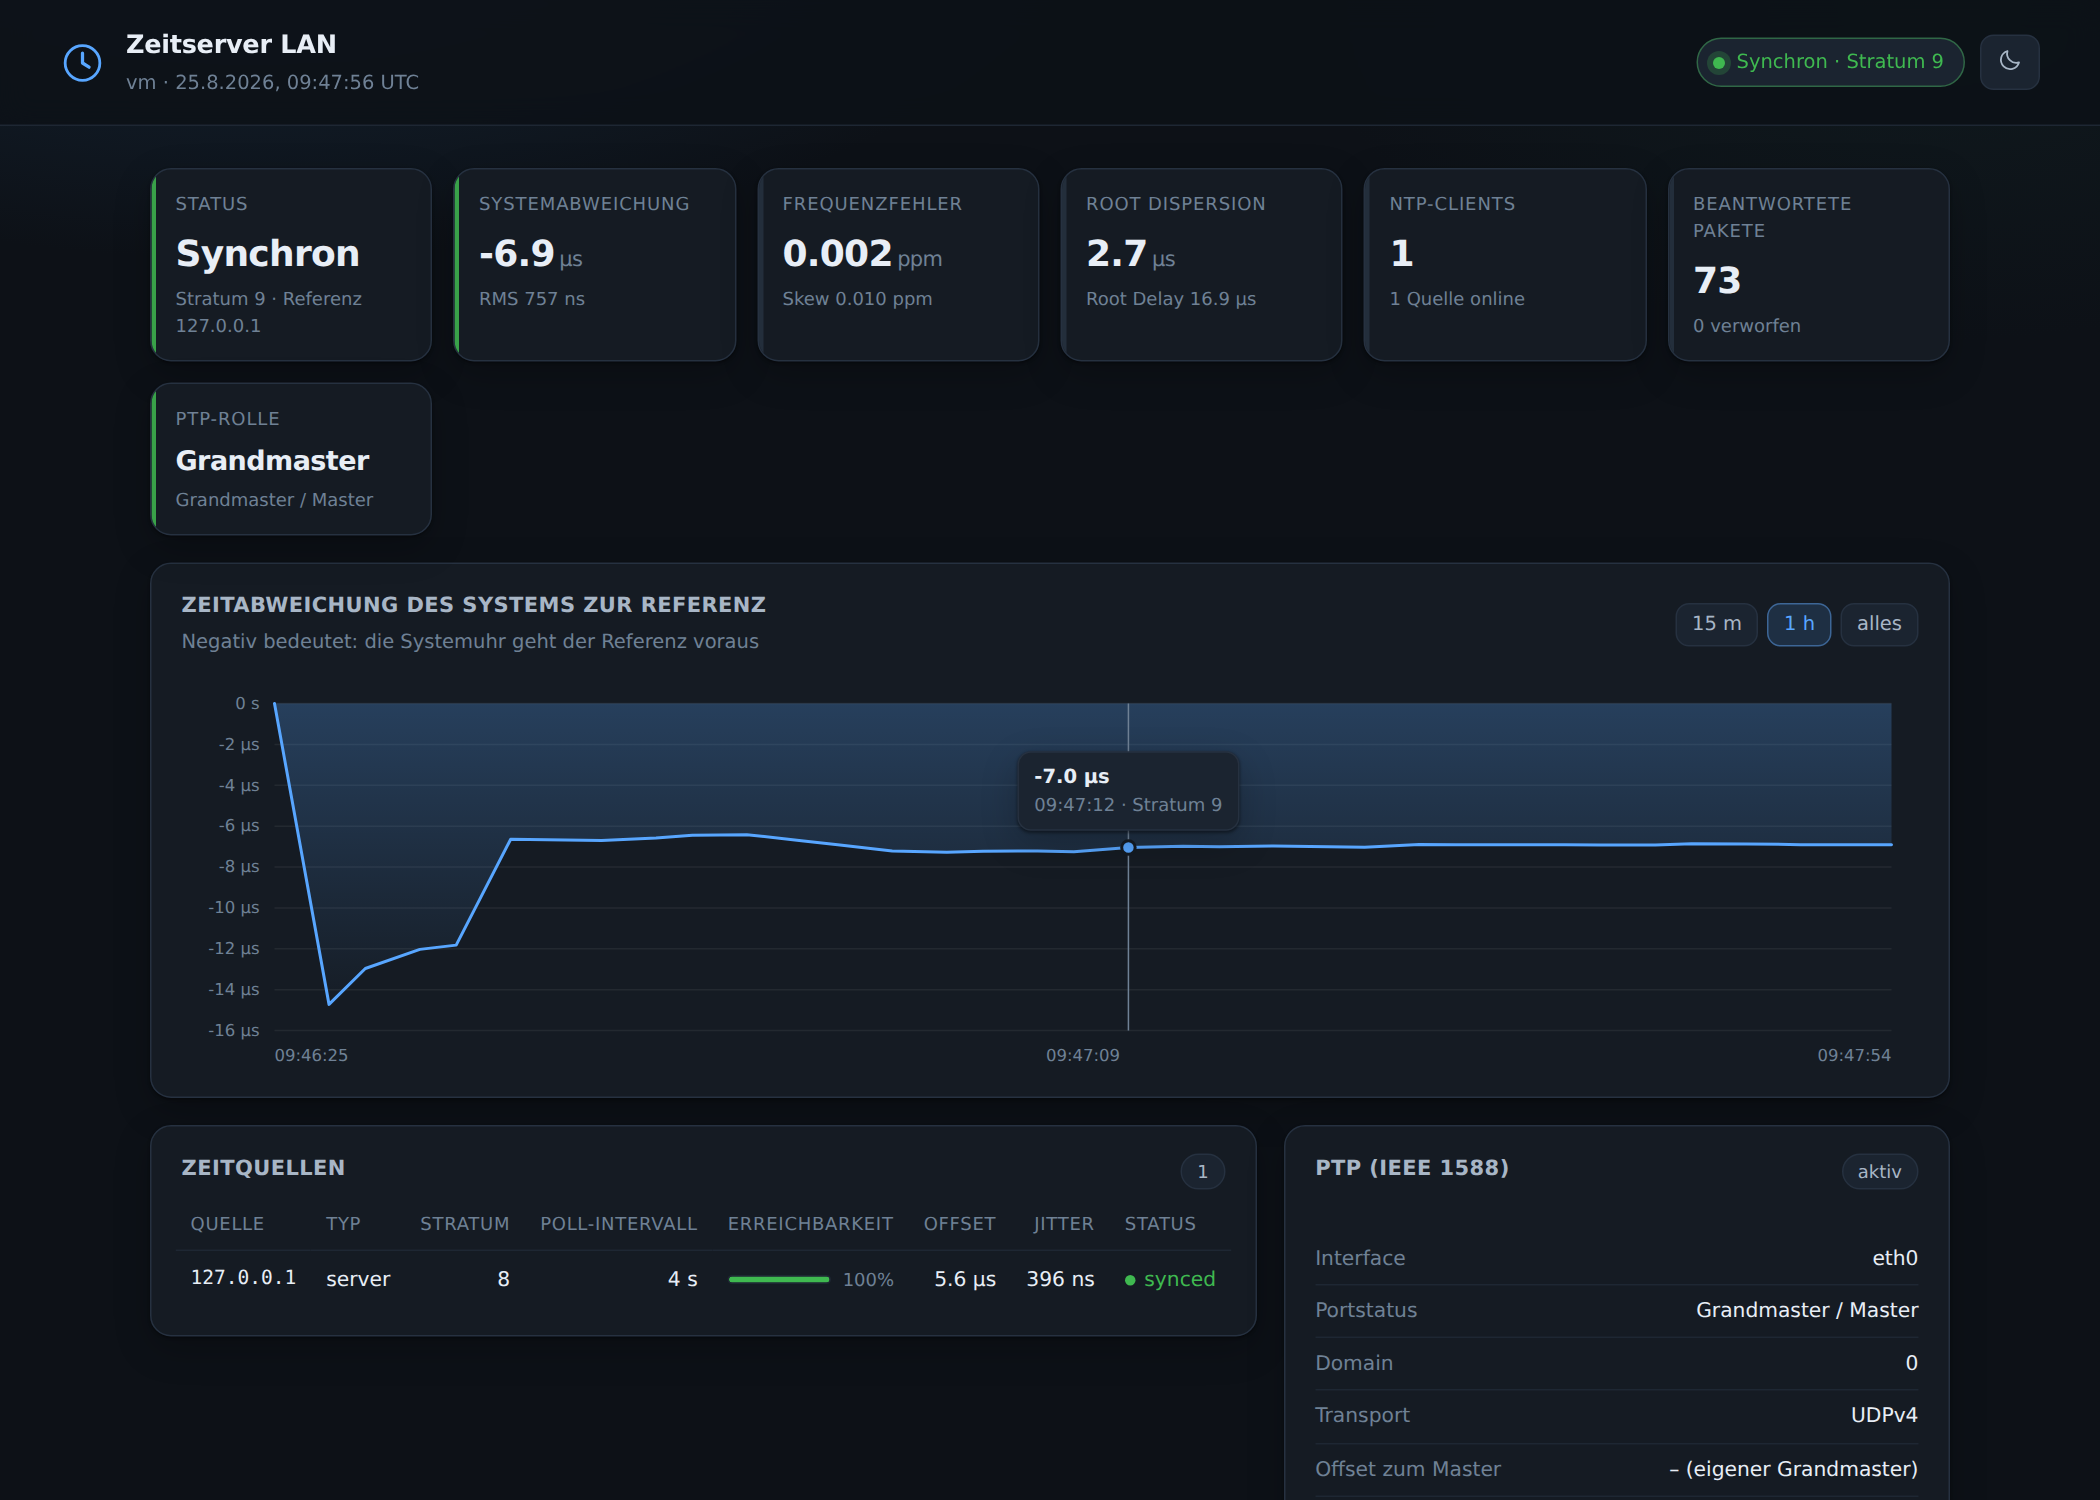
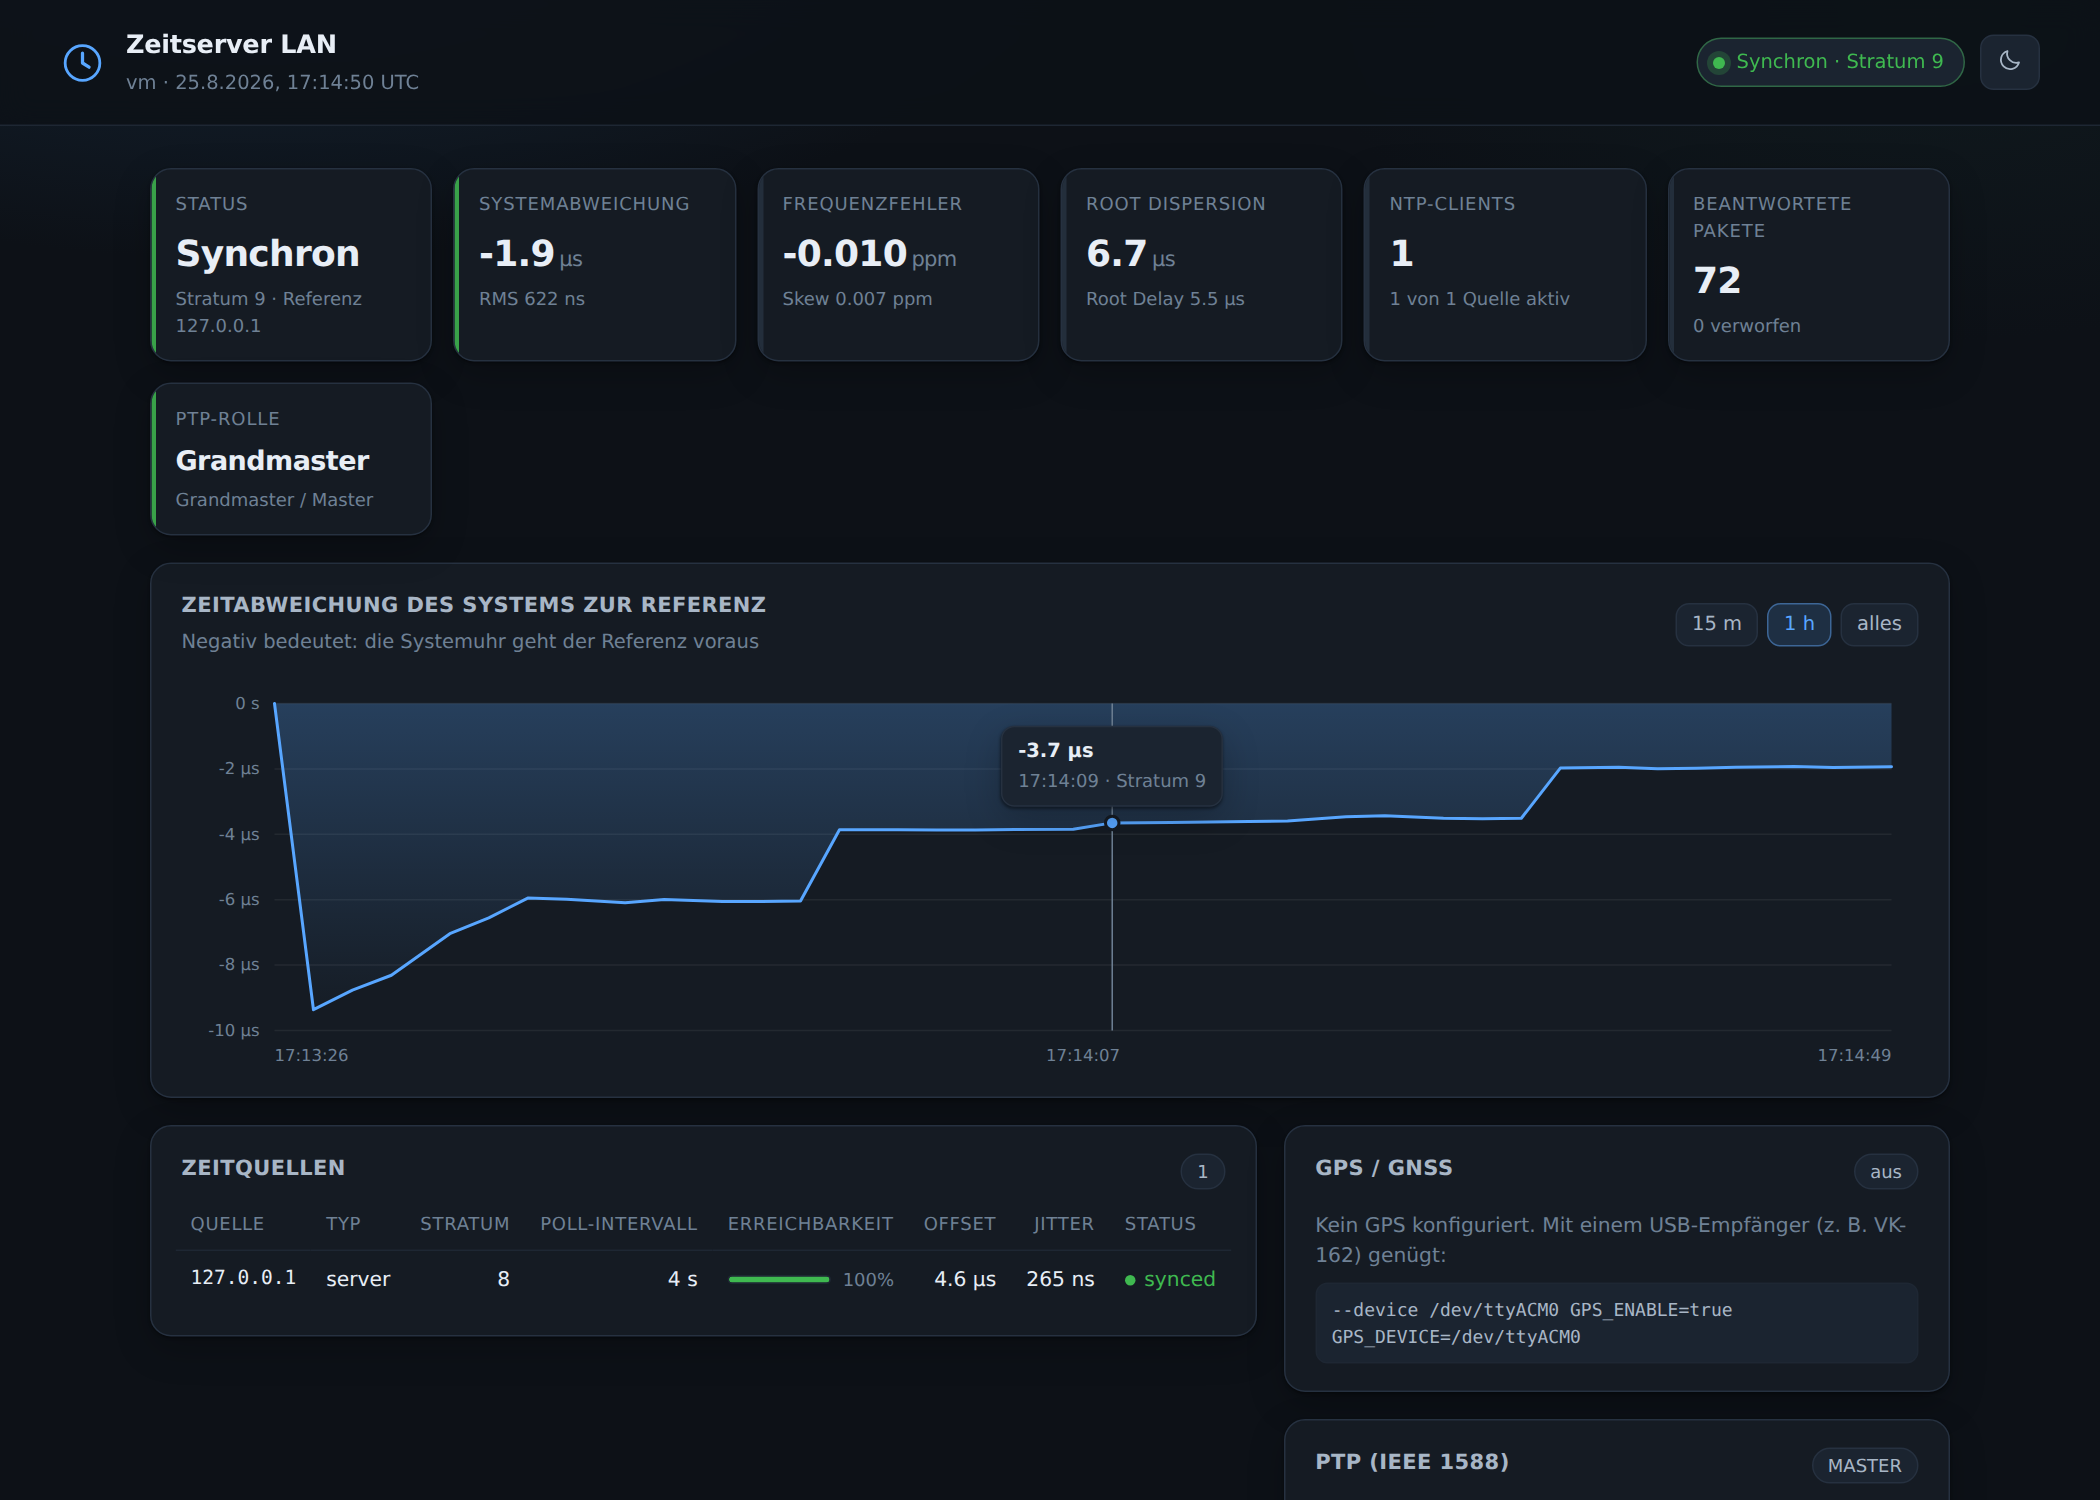
Haerten: Integrationstest gegen das Image, gefundene Fehler behoben
Ein Container-Testlauf gegen ein tatsaechlich gebautes Image plus ein
Review des gesamten Codes. Gefundene und behobene Fehler:

- Basic-Auth stuerzte bei Nicht-ASCII-Benutzernamen ab: hmac.compare_digest
  verweigert solche Strings, und der Aufruf lag ausserhalb des try-Blocks.
  Jetzt werden Bytes verglichen; Umlaute, Emojis und kaputte Header liefern
  sauber 401.
- Bei fehlendem GPS-Geraet blieb eine tote "refclock SHM"-Zeile in der
  Konfiguration stehen - im Dashboard dauerhaft eine unerreichbare Quelle.
- Das PTP-Badge las port_state statt portState und zeigte deshalb immer nur
  "aktiv" statt des Portzustands.
- Die Kachel "NTP-Clients" zeigte "0 Quellen online", sobald die einzige
  Quelle ein Refclock war: chronyc activity zaehlt nur Netzwerkquellen.
  Sie rechnet jetzt mit den tatsaechlichen Quellen.
- Unsinnige Zahlenwerte in Umgebungsvariablen (HISTORY_SIZE=abc) rissen den
  Webserver beim Import mit einem Traceback herunter. Jetzt Fallback auf den
  Default mit Hinweis im Log.
- Ein totes ptp4l konnte eine Anfrage bis zu sechs pmc-Timeouts lang
  blockieren: es wird nur noch ein Datensatz probiert und das Ergebnis
  gecacht.
- Exit-Code 0 auch dann, wenn ein Dienst wegstarb - mit restart=on-failure
  waere der Container nicht neu gestartet. Jetzt 0 nur bei SIGTERM, sonst 1.
- Kleinigkeiten: Prometheus-Labels werden escaped, Caches geben Kopien
  zurueck, belegter Port meldet sich mit Klartext statt Traceback, Warnung
[…]

diff --git a/app/static/app.js b/app/static/app.js
@@ -122,11 +122,16 @@ function renderStats(data) {
     note: `Root Delay ${fmt(tracking.root_delay)}`,
   });
 
+  // chronyc activity zählt nur Netzwerkquellen – Refclocks wie GPS fehlen dort.
+  const sources = data.sources || [];
+  const activeSources = sources.filter((s) => s.state_label === "synced" || s.state_label === "combined").length;
   tiles.push({
     label: "NTP-Clients",
     value: String(data.client_count ?? 0),
     tone: "muted",
-    note: `${(data.activity && data.activity.online) ?? 0} ${((data.activity && data.activity.online) === 1) ? "Quelle" : "Quellen"} online`,
+    note: sources.length
+      ? `${activeSources} von ${sources.length} ${sources.length === 1 ? "Quelle" : "Quellen"} aktiv`
+      : "keine Zeitquelle konfiguriert",
   });
 
   const served = stats.ntp_packets_received;
@@ -394,7 +399,7 @@ function renderPtp(ptp) {
     return;
   }
 
-  badge.textContent = ptp.running ? (ptp.port_state || "aktiv") : "keine Antwort";
+  badge.textContent = ptp.running ? (ptp.portState || "aktiv") : "keine Antwort";
   const rows = [
     ["Interface", ptp.interface || "–"],
     ["Portstatus", ptp.port_state_label || "–"],

diff --git a/app/server.py b/app/server.py
@@ -28,8 +28,30 @@ STATIC_DIR = Path(__file__).with_name("static")
 CHRONY_CONF = os.environ.get("CHRONY_CONF", "/etc/chrony/chrony.conf")
 START_TIME = time.time()
 
-HISTORY_SIZE = int(os.environ.get("HISTORY_SIZE", "720"))
-HISTORY_INTERVAL = float(os.environ.get("HISTORY_INTERVAL", "10"))
+
+
+def env_number(name: str, default, kind=float, minimum=None):
+    """Numeric environment variable that never takes the container down.
+
+    A typo in a compose file must not turn into a crash loop, so an unusable
+    value falls back to the default instead of raising.
+    """
+    raw = os.environ.get(name)
+    if raw is None or not str(raw).strip():
+        return default
+    try:
+        value = kind(str(raw).strip())
+    except (TypeError, ValueError):
+        print(f"[web] {name}={raw!r} ist keine Zahl – verwende {default}", flush=True)
+        return default
+    if minimum is not None and value < minimum:
+        print(f"[web] {name}={value} ist zu klein – verwende {minimum}", flush=True)
+        return minimum
+    return value
+
+
+HISTORY_SIZE = env_number("HISTORY_SIZE", 720, int, minimum=2)
+HISTORY_INTERVAL = env_number("HISTORY_INTERVAL", 10.0, float, minimum=1.0)
 
 CONTENT_TYPES = {
     ".html": "text/html; charset=utf-8",
@@ -95,16 +117,15 @@ def system_info() -> dict:
         "timezone": time.strftime("%Z"),
         "uptime_seconds": int(time.time() - START_TIME),
         "title": os.environ.get("WEB_TITLE", "NTP / PTP Time Server"),
-        "refresh_seconds": float(os.environ.get("WEB_REFRESH_SECONDS", "5")),
-        "ntp_port": int(os.environ.get("NTP_PORT", "123")),
+        "refresh_seconds": env_number("WEB_REFRESH_SECONDS", 5.0, float, minimum=1.0),
+        "ntp_port": env_number("NTP_PORT", 123, int),
     }
     try:
         with open("/proc/uptime") as handle:
             info["host_uptime_seconds"] = int(float(handle.read().split()[0]))
     except OSError:
         pass
-    for name in ("addresses", "ipv4"):
-        info.setdefault(name, [])
+    info["addresses"] = []
     try:
         for family, _, _, _, sockaddr in socket.getaddrinfo(socket.gethostname(), None):
             address = sockaddr[0]
@@ -142,6 +163,11 @@ def _metric(lines: list[str], name: str, value, help_text: str, kind: str = "gau
     lines.append(f"{name}{labels} {value}")
 
 
+def _escape_label(value) -> str:
+    """Prometheus label values escape backslash, quote and newline."""
+    return str(value).replace("\\", "\\\\").replace('"', '\\"').replace("\n", "\\n")
+
+
 def build_metrics() -> str:
     tracking = chrony.tracking()
     lines: list[str] = []
@@ -157,7 +183,8 @@ def build_metrics() -> str:
     _metric(lines, "ntpgui_synchronised", 1 if tracking.get("synchronised") else 0, "1 when the clock is synchronised")
 
     for source in chrony.merged_sources():
-        labels = '{source="%s",mode="%s"}' % (source.get("name", ""), source.get("mode_label", ""))
+        labels = '{source="%s",mode="%s"}' % (
+            _escape_label(source.get("name", "")), _escape_label(source.get("mode_label", "")))
         _metric(lines, "ntpgui_source_offset_seconds", source.get("offset"), "Offset per source", labels=labels)
         _metric(lines, "ntpgui_source_stratum", source.get("stratum"), "Stratum per source", labels=labels)
         _metric(lines, "ntpgui_source_reach_percent", source.get("reach_percent"), "Reachability per source", labels=labels)
@@ -221,12 +248,14 @@ class Handler(BaseHTTPRequestHandler):
         if not header.startswith("Basic "):
             return False
         try:
-            decoded = base64.b64decode(header[6:]).decode()
+            decoded = base64.b64decode(header[6:], validate=True).decode("utf-8")
         except Exception:
             return False
         user, _, password = decoded.partition(":")
         expected_user, expected_password = self._credentials
-        return hmac.compare_digest(user, expected_user) and hmac.compare_digest(password, expected_password)
+        # compare_digest refuses str with non-ASCII characters, so compare bytes.
+        return (hmac.compare_digest(user.encode("utf-8"), expected_user.encode("utf-8"))
+                & hmac.compare_digest(password.encode("utf-8"), expected_password.encode("utf-8")))
 
     def _serve_static(self, name: str) -> None:
         path = (STATIC_DIR / name).resolve()
@@ -284,16 +313,23 @@ class Handler(BaseHTTPRequestHandler):
 
 
 def main() -> None:
-    port = int(os.environ.get("WEB_PORT", "8080"))
+    port = env_number("WEB_PORT", 8080, int, minimum=1)
     bind = os.environ.get("WEB_BIND", "0.0.0.0")
     user = os.environ.get("WEB_USER", "").strip()
     password = os.environ.get("WEB_PASSWORD", "")
     credentials = (user, password) if user and password else None
+    if bool(user) != bool(password):
+        print("[web] WARNUNG: WEB_USER und WEB_PASSWORD müssen beide gesetzt sein – "
+              "das Dashboard läuft ohne Authentifizierung.", flush=True)
 
     threading.Thread(target=collector, daemon=True, name="collector").start()
 
     handler = partial(Handler, credentials=credentials)
-    server = ThreadingHTTPServer((bind, port), handler)
+    try:
+        server = ThreadingHTTPServer((bind, port), handler)
+    except OSError as exc:
+        raise SystemExit(f"[web] Port {bind}:{port} nicht verfügbar ({exc}). "
+                         f"WEB_PORT anpassen oder den belegenden Dienst beenden.")
     server.daemon_threads = True
     auth_note = "mit Basic-Auth" if credentials else "ohne Authentifizierung"
     print(f"[web] dashboard on http://{bind}:{port} ({auth_note})", flush=True)

diff --git a/app/ptp.py b/app/ptp.py
@@ -5,6 +5,8 @@ from __future__ import annotations
 import os
 import shutil
 import subprocess
+import threading
+import time
 from typing import Any
 
 PMC = shutil.which("pmc") or "/usr/sbin/pmc"
@@ -102,10 +104,31 @@ def log_tail(lines: int = 40) -> list[str]:
         return []
 
 
+_CACHE: dict[str, Any] = {}
+_CACHE_TIME = 0.0
+try:
+    _CACHE_TTL = max(0.0, float(os.environ.get("PTP_CACHE_TTL", "4")))
+except ValueError:
+    _CACHE_TTL = 4.0
+_LOCK = threading.Lock()
+
+
 def status() -> dict[str, Any]:
     """Aggregated PTP state; ``running`` is False when ptp4l is not answering."""
     if not enabled():
         return {"enabled": False, "running": False}
+
+    with _LOCK:
+        if _CACHE and time.time() - _CACHE_TIME < _CACHE_TTL:
+            return dict(_CACHE)
+        state = _collect()
+        _CACHE.clear()
+        _CACHE.update(state)
+        globals()["_CACHE_TIME"] = time.time()
+        return dict(state)
+
+
+def _collect() -> dict[str, Any]:
 
     state: dict[str, Any] = {
         "enabled": True,
@@ -115,11 +138,15 @@ def status() -> dict[str, Any]:
         "domain": os.environ.get("PTP_DOMAIN", "0"),
     }
 
+    # Probe one dataset first: if ptp4l is gone, five more timeouts would only
+    # stall the dashboard.
     answered = False
-    for dataset, fields in _DATASETS.items():
+    for index, (dataset, fields) in enumerate(_DATASETS.items()):
         values = _query(dataset)
         if values:
             answered = True
+        elif index == 0 and not answered:
+            break
         for field in fields:
             if field in values:
                 state[field] = _coerce(field, values[field])

diff --git a/tests/test_parsers.py b/tests/test_parsers.py
@@ -237,5 +237,36 @@ class TestRefclockSource(unittest.TestCase):
         self.assertAlmostEqual(row["original_offset"], -0.001499888)
 
 
+class TestEnvNumber(unittest.TestCase):
+    """A typo in a compose file must never crash the container."""
+
+    def setUp(self):
+        import server
+        self.env_number = server.env_number
+        os.environ.pop("NTPGUI_TESTVAR", None)
+
+    def tearDown(self):
+        os.environ.pop("NTPGUI_TESTVAR", None)
+
+    def test_unset_returns_default(self):
+        self.assertEqual(self.env_number("NTPGUI_TESTVAR", 720, int), 720)
+
+    def test_valid_value(self):
+        os.environ["NTPGUI_TESTVAR"] = " 42 "
+        self.assertEqual(self.env_number("NTPGUI_TESTVAR", 720, int), 42)
+
+    def test_garbage_falls_back(self):
+        os.environ["NTPGUI_TESTVAR"] = "zwölf"
+        self.assertEqual(self.env_number("NTPGUI_TESTVAR", 720, int), 720)
+
+    def test_empty_falls_back(self):
+        os.environ["NTPGUI_TESTVAR"] = "   "
+        self.assertEqual(self.env_number("NTPGUI_TESTVAR", 5.0, float), 5.0)
+
+    def test_minimum_is_enforced(self):
+        os.environ["NTPGUI_TESTVAR"] = "-3"
+        self.assertEqual(self.env_number("NTPGUI_TESTVAR", 10.0, float, minimum=1.0), 1.0)
+
+
 if __name__ == "__main__":
     unittest.main(verbosity=2)

diff --git a/app/gps.py b/app/gps.py
@@ -18,7 +18,10 @@ FIX_MODES = {0: "unbekannt", 1: "kein Fix", 2: "2D-Fix", 3: "3D-Fix"}
 
 _CACHE: dict[str, Any] = {}
 _CACHE_TIME = 0.0
-_CACHE_TTL = float(os.environ.get("GPS_CACHE_TTL", "5"))
+try:
+    _CACHE_TTL = max(0.0, float(os.environ.get("GPS_CACHE_TTL", "5")))
+except ValueError:
+    _CACHE_TTL = 5.0
 _LOCK = threading.Lock()
 
 
@@ -135,7 +138,7 @@ def status() -> dict[str, Any]:
 
     with _LOCK:
         if _CACHE and time.time() - _CACHE_TIME < _CACHE_TTL:
-            return _CACHE
+            return dict(_CACHE)
         state = parse_reports(poll_gpsd())
         state["enabled"] = True
         state.setdefault("device", os.environ.get("GPS_DEVICE", ""))
@@ -153,4 +156,4 @@ def status() -> dict[str, Any]:
             state["pps"] = ""
         _CACHE = state
         _CACHE_TIME = time.time()
-        return state
+        return dict(state)

diff --git a/README.md b/README.md
@@ -235,7 +235,7 @@ die im Dashboard unten einsehbar ist.
 | `NTP_PORT` | `123` | NTP-Port |
 | `BIND_ADDRESS` | – | Auf eine Adresse beschränken |
 | `NTP_HW_TIMESTAMP` | `false` | Hardware-Zeitstempel für NTP (`hwtimestamp`) |
-| `DISABLE_CLOCK_CONTROL` | `auto` | `true` = chronyd startet mit `-x`; `auto` erkennt fehlendes `CAP_SYS_TIME` |
+| `DISABLE_CLOCK_CONTROL` | `auto` | `true` erzwingt `-x` (Uhr wird nie gestellt). Bei `auto` und bei `false` prüft der Container `CAP_SYS_TIME` und ergänzt `-x` nur, wenn die Capability fehlt |
 | `MAKESTEP` | `1.0 3` | `makestep`-Parameter |
 | `EXTRA_CHRONY_CONF` | – | Beliebige zusätzliche Zeilen (`\n` als Trenner) |
 
@@ -314,6 +314,23 @@ environment:
 Das Dashboard hat **keine Verschlüsselung**. Für Zugriff über unsichere Netze einen
 Reverse Proxy mit TLS davorsetzen und `WEB_USER`/`WEB_PASSWORD` verwenden.
 
+### Was im Container unter welchem Benutzer läuft
+
+| Prozess | Benutzer | Warum |
+|---|---|---|
+| `chronyd` | `_chrony` | legt Privilegien nach dem Start selbst ab |
+| `gpsd` | `gpsd` | ebenso |
+| `ptp4l` / `phc2sys` | root | brauchen `CAP_NET_ADMIN` für Hardware-Zeitstempel |
+| Dashboard (`python3`) | root | ruft `chronyc` und `pmc` auf, deren Sockets root bzw. `_chrony` gehören |
+
+Das Dashboard schreibt nichts, führt keine Shell-Kommandos aus (alle Aufrufe nutzen feste
+Argumentlisten) und hat keinen Upload-Pfad. Trotzdem gilt: der Container ist für das eigene
+LAN gedacht, nicht für das offene Internet. Wer ihn exponiert, gehört hinter einen Reverse
+Proxy mit TLS und Authentifizierung.
+
+`/healthz` ist **bewusst ohne Login** erreichbar, damit der Docker-Healthcheck funktioniert.
+Der Endpunkt verrät nur, ob chronyd antwortet.
+
 ## Endpunkte
 
 | Pfad | Inhalt |
@@ -329,8 +346,15 @@ Reverse Proxy mit TLS davorsetzen und `WEB_USER`/`WEB_PASSWORD` verwenden.
 
 ```bash
 python3 -m unittest discover -s tests -v     # Parser-Tests (ohne laufenden chronyd)
-docker build -t ntp-gui .
+docker build -t ntp-gui:test .
+tests/container-test.sh ntp-gui:test         # Integrationstest gegen das gebaute Image
 ```
+
+Der Integrationstest startet echte Container und prüft das, was Unittests nicht abdecken:
+Erkennung von fehlendem `CAP_SYS_TIME`, Healthcheck, alle Endpunkte, Basic-Auth,
+gemountete Konfiguration, Verhalten ohne GPS-/PTP-Hardware, eine echte NTP-Abfrage über
+das Netz und die Exit-Codes beim Stoppen. Dieselbe Datei läuft in der CI gegen das
+gebaute Image.
 
 Lokal ohne Container starten (setzt installiertes `chrony` voraus):
 
@@ -351,3 +375,6 @@ CSV-Zeile, „nie gehört“ ist `4294967295` und `pmc` antwortet nur, wenn die 
 * Der Offset-Verlauf liegt im Speicher und geht bei einem Neustart verloren. Für
   Langzeitdaten `/metrics` mit Prometheus abgreifen.
 * `chronyc clients` zählt nur, solange das Client-Log Platz hat (`CLIENTLOGLIMIT`).
+* Das Dashboard bringt kein TLS mit – für Zugriffe außerhalb des vertrauenswürdigen Netzes
+  gehört ein Reverse Proxy davor.
+* PTP braucht das Host-Netzwerk; über eine Docker-Bridge funktioniert es nicht.
